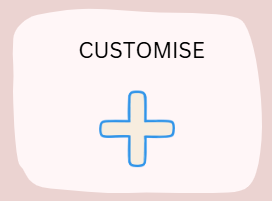
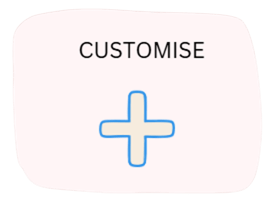
Dashboard created with to-do list and timer

diff --git a/dashboard.py b/dashboard.py
@@ -1,0 +1,181 @@
+# Package imports
+import customtkinter as ctk
+from tkinter import *
+from PIL import Image
+from time import sleep
+
+def dashboard():
+    # Window
+    root = ctk.CTkToplevel()
+    root.title("Dashboard")
+    root.geometry("1000x600")
+    root.configure(fg_color="#ead2d2")
+    root.protocol("WM_DELETE_WINDOW", exit)
+
+    # Dashboard title
+    dashboard_title_image = Image.open("Assets/dashboard_title.png")
+    dashboard_title_image = ctk.CTkImage(dashboard_title_image, dashboard_title_image, (500, 100))
+    dashboard_title_image_label = ctk.CTkLabel(root, text="", image=dashboard_title_image)
+
+    # Editable to-do list
+    global todo_cur
+    todo_cur = 0
+
+    # Timer
+    timer_label = ctk.CTkLabel(root, 400, 370, text="25:00\n", text_color="black", fg_color="white", corner_radius=20)
+    timer_label.cget("font").configure(size=70)
+    timer_type_label = ctk.CTkLabel(timer_label, text="   Pomodoro: 25m study, 5m break", text_color="black", fg_color="lightgray", image=ctk.CTkImage(Image.open("Assets/tomato.png"), Image.open("Assets/tomato.png"), (20, 20)), compound="left", corner_radius=20)
+    global timer_remaining_time, timer_paused, timer_study
+    timer_remaining_time = 11
+    timer_paused = timer_study = False
+
+    def timer_update():
+        global timer_remaining_time, timer_paused, timer_study
+        if not timer_paused:
+            if timer_remaining_time > 0:
+                timer_remaining_time -= 1
+                mins, secs = divmod(timer_remaining_time, 60)
+                timer_label.configure(text=f"{mins:02d}:{secs:02d}\n")
+                root.after(1000, timer_update)
+            else:
+                '''
+                If we're in study mode, switch to break mode once the
+                timer has ended. Else, switch back to study mode.
+                '''
+                timer_study = False if timer_study else True
+                timer_remaining_time = 10
+                timer_paused = True
+                timer_play_button.configure(text="▶️ Start studying" if timer_study else "▶️ Start break", command=timer_play_button_unpaused_command)
+                root.update_idletasks()
+                sleep(1)
+
+    timer_play_button = ctk.CTkButton(timer_label, text="▶  Start studying", width=50, height=50, corner_radius=20)
+    timer_play_button.cget("font").configure(size=15)
+
+    def timer_play_button_pause_command():
+        global timer_paused, timer_study
+        timer_paused = True
+        timer_play_button.configure(text="▶️ Continue studying" if timer_study else "▶️ Continue break", command=timer_play_button_unpaused_command)
+        root.update_idletasks()
+        sleep(1)
+
+    def timer_play_button_unpaused_command():
+        global timer_paused, timer_study
+        timer_paused = False
+        timer_play_button.configure(text="⏸️ Pause study" if timer_study else "⏸️ Pause break", command=timer_play_button_pause_command)
+        root.after(1000, timer_update)
+
+    timer_play_button.configure(command=timer_play_button_unpaused_command)
+
+    def todo_add_button_command():
+        global todo_cur
+
+        temp_textbox = ctk.CTkEntry(todo_frame, height=20)
+
+        ''' 
+        When the user clicks on a created task, it 
+        brings up two options - to check it as done,
+        or delete it. 
+        '''
+        
+        def todo_task_checkbox_checked_command(checked_checkbox):
+            '''
+            Search for the checkbox that was checked and get
+            the grid row for it.
+            '''
+            for i in todo_frame.winfo_children():
+                if isinstance(i, ctk.CTkCheckBox):
+                    if i.get():
+                        i.deselect()
+
+            checked_checkbox.select()
+
+            temp_row = checked_checkbox.grid_info()['row']
+            todo_task_complete_button.grid(row=temp_row, column=1, sticky='W', padx=5, pady=5)
+            todo_task_delete_button.grid(row=temp_row, column=2, sticky='W', padx=5, pady=5)
+
+        def todo_task_checkbox_unchecked_command():
+            todo_task_complete_button.grid_remove()
+            todo_task_delete_button.grid_remove()
+
+        def todo_task_checkbox_command(todo_task_checkbox):
+            state = todo_task_checkbox.get()
+            
+            if state == 1:
+                todo_task_checkbox_checked_command(todo_task_checkbox)
+            else:
+                todo_task_checkbox_unchecked_command()
+
+        def temp_confirm_button_command():
+            global todo_cur
+            todo_task_checkbox = ctk.CTkCheckBox(todo_frame, command=lambda: todo_task_checkbox_command(todo_task_checkbox), text=temp_textbox.get(), text_color="black", fg_color="black", border_color="black")
+            todo_task_checkbox.grid(row=todo_cur, column=0, sticky='W', pady=5)
+            temp_textbox.destroy()
+            temp_confirm_button.destroy()
+            temp_cancel_button.destroy()
+            todo_add_button.configure(state="normal")
+            todo_cur += 1
+
+        def temp_cancel_button_command():
+            temp_textbox.destroy()
+            temp_confirm_button.destroy()
+            temp_cancel_button.destroy()
+            todo_add_button.configure(state="normal")
+
+        temp_confirm_button = ctk.CTkButton(todo_frame, command=temp_confirm_button_command, text="✅ Confirm", width=28)
+        temp_cancel_button = ctk.CTkButton(todo_frame, command=temp_cancel_button_command, text="❌ Cancel", width=28)
+        
+        temp_textbox.grid(row=todo_cur, column=0, sticky='W')
+        temp_confirm_button.grid(row=todo_cur, column=1, sticky='W', padx=5)
+        temp_cancel_button.grid(row=todo_cur, column=2, sticky='W', padx=5)
+
+        todo_cur += 1
+        todo_add_button.configure(state="disabled")
+
+    todo_frame = ctk.CTkScrollableFrame(root, 400, 330, fg_color="#cb6ce6", corner_radius=20)
+    todo_add_button = ctk.CTkButton(root, command=todo_add_button_command, text="Add task", corner_radius=20)
+
+    def todo_task_delete_button_command():
+        '''
+        Iterate through the grid items to find the checkbox whose 
+        row matches the delete button's - the checkbox selected for
+        deletion.
+        '''
+        for i in todo_frame.winfo_children():
+            if isinstance(i, ctk.CTkCheckBox) and i.grid_info()['row'] == todo_task_delete_button.grid_info()['row']:
+                i.destroy()
+                break
+        todo_task_complete_button.grid_remove()
+        todo_task_delete_button.grid_remove()
+
+    def todo_task_complete_button_command():
+        '''
+        Iterate the same way, except to find task marked for COMPLETION.
+        '''
+        for i in todo_frame.winfo_children():
+            if isinstance(i, ctk.CTkCheckBox) and i.grid_info()['row'] == todo_task_complete_button.grid_info()['row']:
+                '''
+                Make the completed task green and put a line through the text for a second,
+                then remove from the todo list.
+                '''
+                todo_task_complete_button.grid_remove()
+                todo_task_delete_button.grid_remove()
+                i.configure(text_color="green", fg_color="green", border_color="green")
+                i.cget("font").configure(overstrike=1)
+                root.update_idletasks()
+                sleep(0.8)
+                i.destroy()
+                break
+
+    todo_task_complete_button = ctk.CTkButton(todo_frame, command=todo_task_complete_button_command, text="✅ Mark as done", width=28)
+    todo_task_delete_button = ctk.CTkButton(todo_frame, command=todo_task_delete_button_command, text="🗑️ Delete", width=28)
+
+    # Widget placements
+    dashboard_title_image_label.place(relx=0.03, rely=0.22, anchor=SW)
+    todo_frame.place(relx=0.03, rely=0.88, anchor=SW)
+    todo_add_button.place(relx=0.03, rely=0.91, anchor=NW)
+    timer_label.place(relx=0.5, rely=0.88, anchor=SW)
+    timer_type_label.grid(row=0, column=0, sticky='NW', padx=10, pady=10)
+    timer_play_button.place(relx=0.5, rely=0.6, anchor=CENTER)
+
+    root.mainloop()

diff --git a/setup2_strategy_screen.py b/setup2_strategy_screen.py
@@ -1,14 +1,22 @@
 # Package imports
 import customtkinter as ctk
 from tkinter import *
+from tkinter import messagebox
 from PIL import Image
+from setup3_1_points_screen import *
+from dataclasses import dataclass
+
+global study_time, break_time
+study_time = break_time = None
 
 def setup2_strategy_screen():
-     # Window
+
+    # Window
     root = ctk.CTkToplevel()
     root.title("Your Strategy")
     root.geometry("1000x600")
     root.configure(fg_color="#ead2d2")
+    root.protocol("WM_DELETE_WINDOW", exit)
 
     title_image = Image.open("Assets/setup2_strategy_title.png")
     title_image = ctk.CTkImage(title_image, title_image, (700, 210))
@@ -16,25 +24,88 @@ def setup2_strategy_screen():
     heart_image = Image.open("Assets/setup2_strategy_heartdrop.png")
     heart_image = ctk.CTkImage(heart_image, heart_image, (330, 300))
     heart_label = ctk.CTkLabel(root, image=heart_image, text="")
-    next_button = ctk.CTkButton(root, command=lambda: (root.withdraw(), setup2_strategy_screen()), text="Next")
+    next_button = ctk.CTkButton(root, command=lambda: (root.withdraw(), setup3_1_points_screen()), text="Next")
 
+    '''
+    Pomodoro technique option
+    '''
+        
     pom_button_image = Image.open("Assets/setup2_strategy_pombutton.png")
-    pom_button_image = ctk.CTkImage(pom_button_image, pom_button_image, (340, 280))
-    pom_button = ctk.CTkButton(root, text="", fg_color="#e5d2e9", corner_radius=20, image=pom_button_image)
+    pom_button_image = ctk.CTkImage(pom_button_image, pom_button_image, (300, 250))
+    pom_button = ctk.CTkButton(root, text="", fg_color="#ead2d2", corner_radius=20, image=pom_button_image)
 
-    block_button_image = Image.open("Assets/setup2_strategy_blockbutton.png")
-    block_button_image = ctk.CTkImage(block_button_image, block_button_image, (150, 100))
-    block_button = ctk.CTkButton(root, text="", fg_color="#e5d2e9", corner_radius=20, image=block_button_image)
+    '''
+    Custom study and break time option
+    '''
 
     com_button_image = Image.open("Assets/setup2_strategy_combutton.png")
-    com_button_image = ctk.CTkImage(com_button_image, com_button_image, (150, 100))
-    com_button = ctk.CTkButton(root, text="", fg_color="#e5d2e9", corner_radius=20, image=com_button_image)
+    com_button_image = ctk.CTkImage(com_button_image, com_button_image, (300, 250))
+    com_button = ctk.CTkButton(root, text="", fg_color="#ead2d2", corner_radius=20, image=com_button_image)
 
+    '''
+    Plugging in button commands
+    '''
+
+    def pom_button_command():
+        '''
+        Deselect the other button and select the one that's clicked on
+        '''
+        com_button.configure(fg_color="#ead2d2")
+        pom_button.configure(fg_color="#1F6AA5")
+
+    def com_button_command():
+        global study_time, break_time
+        '''
+        Same deselection
+        '''
+        pom_button.configure(fg_color="#ead2d2")
+        com_button.configure(fg_color="#1F6AA5")
+        '''
+        Use a pop-up to ask what study-break split they'd like.
+        '''
+        while study_time is None:
+            try:
+                study_time = int(ctk.CTkInputDialog(title="Quick question!", text="How many minutes would you like for one study session?").get_input())
+            except:
+                messagebox.showerror(title="Error!", message="Please enter a number!")
+
+        while break_time is None:
+            try:
+                break_time = int(ctk.CTkInputDialog(title="Quick question!", text="What about for a break after a study session?").get_input())
+                '''
+                We won't allow more break time than study time.
+                '''
+                if break_time > study_time:
+                    break_time = None
+                    messagebox.showerror(title="Hold on!", text="Break time cannot be greater than study time!")
+                    '''
+                    Triggers the loop to run and ask the user again.
+                    '''
+            except:
+                messagebox.showerror(title="Error!", message="Please enter a number!")
+    
+    pom_button.configure(command=pom_button_command)
+    com_button.configure(command=com_button_command)
+
+    '''
+    Widget placing
+    '''
     title_label.place(relx=0.4, rely=0.2, anchor=CENTER)
     heart_label.place(relx=0.85, rely=0.75, anchor=CENTER)
-    pom_button.place(relx=0.25, rely=0.6, anchor=CENTER)
-    block_button.place(relx=0.55, rely=0.52, anchor=CENTER)
-    com_button.place(relx=0.55, rely=0.72, anchor=CENTER)
+    pom_button.place(relx=0.2, rely=0.6, anchor=CENTER)
+    com_button.place(relx=0.52, rely=0.6, anchor=CENTER)
     next_button.place(relx=0.35, rely=0.9, anchor=CENTER)
 
     root.mainloop()
+
+'''
+To get the time data that the user inputted, but from other files.
+'''
+
+@dataclass
+class StudyBreakSplit:
+    study_time: int
+    break_time: int
+
+def get_study_break_split():
+    return StudyBreakSplit(study_time, break_time)

diff --git a/setup3_2_points_screen.py b/setup3_2_points_screen.py
@@ -1,0 +1,30 @@
+# Package imports
+import customtkinter as ctk
+from tkinter import *
+from PIL import Image
+from dashboard import *
+
+def setup3_2_points_screen():
+    # Window
+    root = ctk.CTkToplevel()
+    root.title("Earn Points")
+    root.geometry("1000x600")
+    root.protocol("WM_DELETE_WINDOW", exit)
+
+    backdrop_image = Image.open("Assets/setup3_2_points_backdrop.png")
+    backdrop_image = ctk.CTkImage(backdrop_image, backdrop_image, backdrop_image.size)
+    backdrop_label = ctk.CTkLabel(root, image=backdrop_image, text="")
+
+    coins_button_image = Image.open("Assets/setup3_2_coins_button.png")
+    coins_button_image = ctk.CTkImage(coins_button_image, coins_button_image, (522, 132))
+    coins_button = ctk.CTkButton(root, command=lambda: (root.withdraw(), setup3_2_points_screen()), text="", fg_color="#e5d2e9", corner_radius=20, image=coins_button_image)
+
+    xp_button_image = Image.open("Assets/setup3_2_xp_button.png")
+    xp_button_image = ctk.CTkImage(xp_button_image, xp_button_image, (522, 132))
+    xp_button = ctk.CTkButton(root, command=lambda: (root.withdraw(), dashboard()), text="", fg_color="#e5d2e9", corner_radius=20, image=xp_button_image)
+
+    backdrop_label.place(relx=0, rely=0, anchor=NW)
+    coins_button.place(relx=0.5, rely=0.42, anchor=CENTER)
+    xp_button.place(relx=0.5, rely=0.7, anchor=CENTER)
+
+    root.mainloop()

diff --git a/setup3_1_points_screen.py b/setup3_1_points_screen.py
@@ -1,0 +1,25 @@
+# Package imports
+import customtkinter as ctk
+from tkinter import *
+from PIL import Image
+from setup3_2_points_screen import *
+
+def setup3_1_points_screen():
+    # Window
+    root = ctk.CTkToplevel()
+    root.title("Earn Points")
+    root.geometry("1000x600")
+    root.protocol("WM_DELETE_WINDOW", exit)
+
+    backdrop_image = Image.open("Assets/setup3_1_points_backdrop.png")
+    backdrop_image = ctk.CTkImage(backdrop_image, backdrop_image, backdrop_image.size)
+    backdrop_label = ctk.CTkLabel(root, image=backdrop_image, text="")
+
+    start_button_image = Image.open("Assets/setup3_1_start_button.png")
+    start_button_image = ctk.CTkImage(start_button_image, start_button_image, (150, 60))
+    start_button = ctk.CTkButton(root, command=lambda: (root.withdraw(), setup3_2_points_screen()), text="", fg_color="#e5d2e9", corner_radius=20, image=start_button_image)
+
+    backdrop_label.place(relx=0, rely=0, anchor=NW)
+    start_button.place(relx=0.5, rely=0.8, anchor=CENTER)
+
+    root.mainloop()

diff --git a/setup1_studyplan_screen.py b/setup1_studyplan_screen.py
@@ -29,6 +29,7 @@ def setup1_studyplan_screen():
     root.title("Your Study Plan")
     root.geometry("1000x600")
     root.configure(fg_color="#ead2d2")
+    root.protocol("WM_DELETE_WINDOW", exit)
 
     title_image = Image.open("Assets/setup1_studyplan_title.png")
     title_image = ctk.CTkImage(title_image, title_image, title_image.size)
@@ -48,7 +49,7 @@ def setup1_studyplan_screen():
     row = 0
 
     for subject in year_9_subjects:
-        subject_checkbox = ctk.CTkCheckBox(subjects_frame, text=subject, text_color="white")
+        subject_checkbox = ctk.CTkCheckBox(subjects_frame, text=subject, text_color="black", fg_color="black", border_color="black")
         subject_checkbox.grid(row=row, column=0, sticky="W")
         row += 1
 

diff --git a/welcome_screen.py b/welcome_screen.py
@@ -1,4 +1,4 @@
-# Package mports
+# Package imports
 import customtkinter as ctk
 from tkinter import *
 from PIL import Image